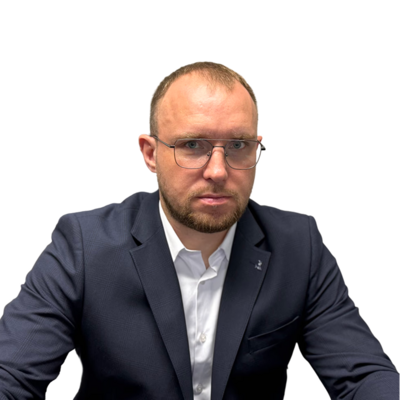
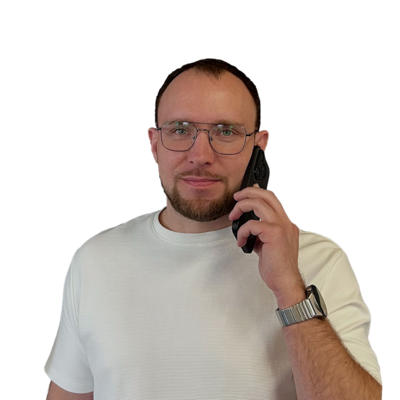
About / Team-L: обновлён состав команды по новому Figma — новое фото Сергея, Светлана вместо Анастасии, добавлены Денис и Марина (9 человек), пересчитаны заполнители сетки под все 5 брейкпоинтов

diff --git a/src/css/style.19.css b/src/css/style.19.css
@@ -6680,37 +6680,44 @@ body.body--header-overlay {
   opacity: 0;
 }
 
-@media (min-width: 768px) {
+/* 16.09: пересчитано с нуля под 9 человек (было 7) — количество нужных
+   заполнителей на каждом брейкпоинте изменилось, старая логика (1
+   заполнитель с 768px безусловно + 2-й с 1000px, скрываемый обратно на
+   1440px) под новые числа не ложится. Сверено напрямую по Figma на всех
+   5 брейкпоинтах (см. комментарий в team-l.njk):
+     - 320/390: 0 заполнителей (9 строк ровно).
+     - 768: 1 заполнитель (4 полных ряда по 2 + Марина).
+     - 1000: 0 заполнителей (9 = 3×3 ровно — раньше было 2).
+     - 1440: 3 заполнителя (2 полных ряда по 4 + Марина). */
+@media (min-width: 768px) and (max-width: 999.98px) {
   .team-l__card--placeholder-1 {
     display: flex;
   }
 }
 
-@media (min-width: 1000px) {
-  /* 11.08: пользователь убрал в Figma правый Stroke у placeholder-1
-     (средняя карточка в неполной последней строке) — теперь у неё
-     только border-left, как у крайней карточки, а не border-left+right,
-     как у настоящей средней колонки (см. общее правило nth-child(3n+2)
-     выше). Селектор ниже — .team-l__card + модификатор вместе, чтобы
-     специфичность совпала с nth-child(3n+2) (тоже 2 класса-уровня) и
-     override сработал за счёт порядка в файле, а не только частный
-     класс сам по себе (он специфичнее). */
-  .team-l__card.team-l__card--placeholder-1 {
-    border-right: none;
-  }
-
-  .team-l__card--placeholder-2 {
+@media (min-width: 1440px) {
+  .team-l__card--placeholder-1,
+  .team-l__card--placeholder-2,
+  .team-l__card--placeholder-3 {
     display: flex;
   }
-}
 
-/* 12.08: на 1440px (4 колонки) 7 реальных карточек + 1 заполнитель
-   ровно закрывают 2 полные строки (8 ячеек) — второй заполнитель
-   (placeholder-2, нужен был для 3-колоночной сетки на 1000px) тут
-   создал бы лишнюю, наполовину пустую 3-ю строку, поэтому скрыт. */
-@media (min-width: 1440px) {
-  .team-l__card--placeholder-2 {
-    display: none;
+  /* В Figma у всех трёх заполнителей последней строки нет СВОЕГО
+     Stroke вообще — ни слева, ни справа (сверено через
+     get_design_context: ни один из трёх "Card" в конце не несёт ни
+     одного border-класса). Divider между Мариной (реальная карточка,
+     border-right достаётся ей по общему правилу nth-child(4n+1) ниже)
+     и заполнителями обеспечивает именно её собственный правый край —
+     заполнителям дублировать его не нужно. Без этого override общее
+     правило nth-child(4n+2)/(4n+3) (см. выше) добавило бы заполнителям
+     1 и 2 лишний border-right, которого в макете нет. Специфичность —
+     тот же приём class+class, что и раньше для этого паттерна:
+     совпадает с nth-child(...), победа за счёт порядка в файле (этот
+     блок объявлен позже). */
+  .team-l__card.team-l__card--placeholder-1,
+  .team-l__card.team-l__card--placeholder-2,
+  .team-l__card.team-l__card--placeholder-3 {
+    border-right: none;
   }
 }
 
@@ -6769,18 +6776,38 @@ body.body--header-overlay {
   height: 118%;
 }
 
-.team-l__photo-img--anastasiya {
-  left: -3.44%;
-  top: 9.25%;
-  width: 107%;
-  height: 107%;
+/* 16.09: Анастасия убрана из команды (заменена Светланой) — модификатор
+   --anastasiya удалён вместе с её фото-файлами. */
+.team-l__photo-img--svetlana {
+  left: -4.38%;
+  top: -28.24%;
+  width: 113.8%;
+  height: 151.73%;
 }
 
+/* 16.09: у Сергея новое фото — кроп пересчитан заново по новому
+   Figma-экспорту (старые числа относились к прежней фотографии,
+   переиспользовать их для нового фото было бы неверно). */
 .team-l__photo-img--sergey {
-  left: -5.12%;
-  top: 3.17%;
-  width: 105%;
-  height: 105%;
+  left: -10.8%;
+  top: -42.54%;
+  width: 117%;
+  height: 146.25%;
+}
+
+/* 16.09: новые члены команды. */
+.team-l__photo-img--denis {
+  left: -5.83%;
+  top: -22.97%;
+  width: 109.5%;
+  height: 146%;
+}
+
+.team-l__photo-img--marina {
+  left: -16.43%;
+  top: -7.6%;
+  width: 119.35%;
+  height: 159.14%;
 }
 
 .team-l__meta {
